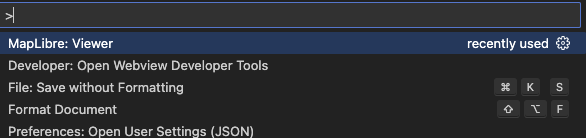
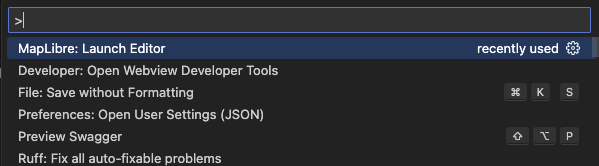
0.0.8

diff --git a/README.md b/README.md
@@ -6,16 +6,15 @@
 
 1. Install the extension
 2. open `style.json` in editor
-3. open command palette and run `MapLibre: Viewer`
+3. open command palette and run `MapLibre: Launch Editor`
     - ![](https://github.com/Kanahiro/maplibre-vscode-extension/blob/main/doc/palette.png?raw=true)
 4. Viewer will open in new tab. When edit `style.json`, the viewer will update automatically.
     - ![](https://github.com/Kanahiro/maplibre-vscode-extension/blob/main/doc/viewer.png?raw=true)
 
-### Available protocols
+### Supported protocols
 
-- `http://path/to/file`
 - `https://path/to/file`
-- `pmtiles://path/to/file.pmtiles`
+- `pmtiles://https://path/to/file.pmtiles`
 
 ```json
 "sources": {
